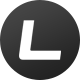
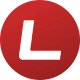
ui updates

diff --git a/resources/styles.css b/resources/styles.css
@@ -60,7 +60,7 @@ text {
     y: 20;
     width: 22;
     height: 25;
-    fill: "black";
+    fill: "white";
     href: "./resources/images/menu_btn.png";
 }
 #status-bar image#refresh-btn {
@@ -68,7 +68,7 @@ text {
     y: 22;
     width: 22;
     height: 20;
-    fill: "black";
+    fill: "white";
     href: "./resources/images/update.png";
 }
 
@@ -80,7 +80,7 @@ text {
 #loading-screen arc#arcKey1 {
     x: -70;
     y: -70;
-    fill: #c58a50;
+    fill: #74512e;
     arc-width: 6;
     start-angle: 360;
     sweep-angle: 180;
@@ -108,7 +108,7 @@ text {
 #loading-screen arc#arc2 {
     x: 50%-70;
     y: 50%-70;
-    fill: #11435d;
+    fill: #2f3639;
     arc-width: 3;
     start-angle: 0;
     sweep-angle: 360;
@@ -163,20 +163,21 @@ text {
 .side-menu-header text#timetable-label {
     x: "$+8";
     y: "$-5";
+    fill: #d09256;
     text-length: 26;
 }
 .side-menu-header image#timetable-icon {
-    x: 35;
+    x: 20%;
     y: 0;
     width: 25;
     height: 25;
-    fill: #fae13c;
+    fill: #c58a50;
     href: "./resources/images/location.png";
 }
 .side-menu-gradient {
     width: 100%;
     height: 25;
-    fill: "fb-aqua";
+    fill: #c58a50;
 }
 
 /* Tile Item */
